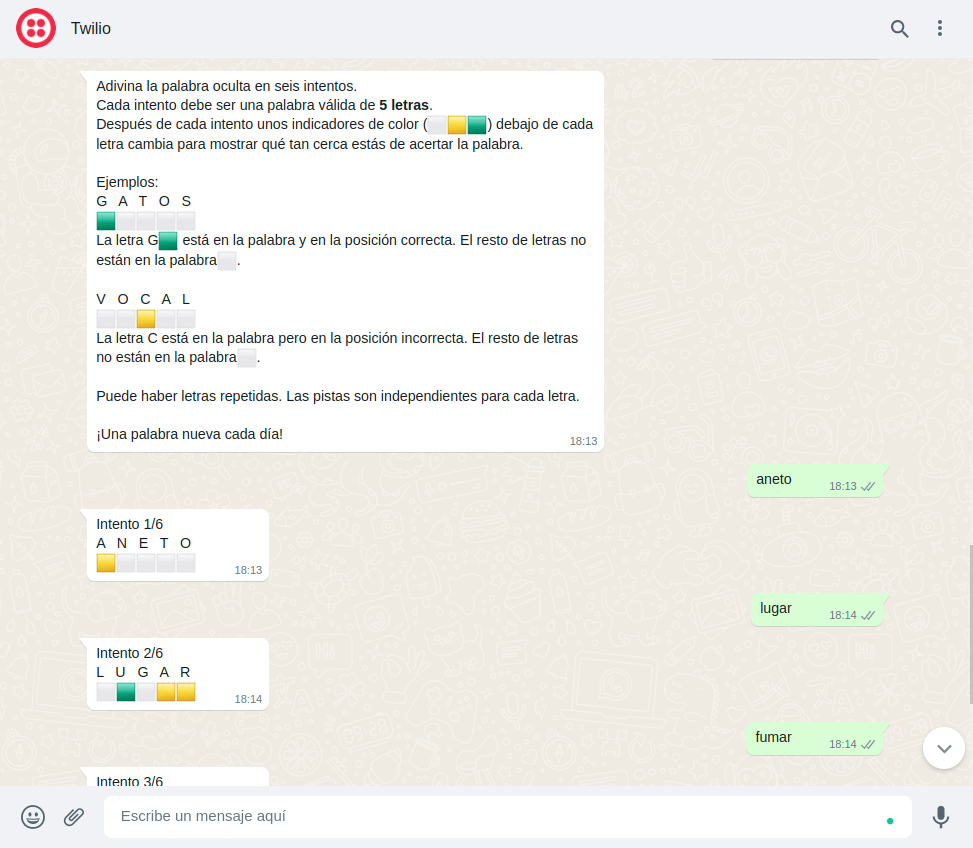
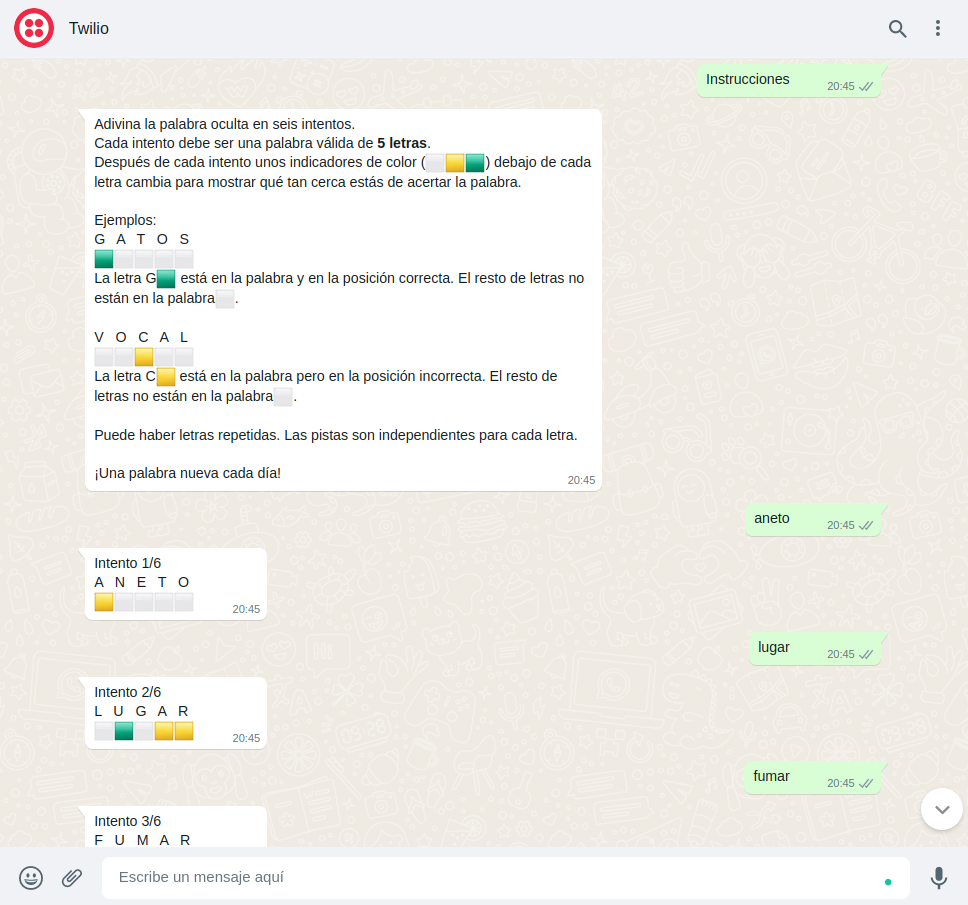
Game v2.0.0 with SQL database

diff --git a/app.py b/app.py
@@ -1,11 +1,16 @@
 import random
-from flask import Flask, request, jsonify, json
+import os
+from collections import Counter
+from datetime import datetime
+from flask import Flask, request
+from sqlalchemy import ForeignKey, and_
 from twilio.twiml.messaging_response import MessagingResponse
+from flask_sqlalchemy import SQLAlchemy
 
 app = Flask(__name__)
 
-with open('data/spanish_words.txt') as file:
-    WORDS = file.readlines()
+app.config['SQLALCHEMY_DATABASE_URI'] = "postgresql://postgres:postgres@localhost:5432/wordle"
+db = SQLAlchemy(app)
 
 MAX_TRIES = 6
 BRIEFING = '''
@@ -27,20 +32,85 @@ Puede haber letras repetidas. Las pistas son independientes para cada letra.
 ¡Una palabra nueva cada día!'''
 
 
-current_word = ''
-n_tries = 0
-global_results = []
+class Words(db.Model):
+    __tablename__ = 'words'
 
-def generate_new_word() -> str:
+    word_id = db.Column(db.Integer, primary_key=True)
+    word = db.Column(db.String())
+    word_date = db.Column(db.Date())
+
+    def __init__(self, word, word_date):
+        self.word = word
+        self.word_date = word_date
+
+    def __repr__(self):
+        return f'<Word {self.word} for {self.word_date}>'
+
+class Users(db.Model):
+    __tablename__ = 'users'
+
+    user_id = db.Column(db.Integer, primary_key=True)
+    user_phone = db.Column(db.String())
+    signup_on = db.Column(db.DateTime())
+    last_login = db.Column(db.DateTime())
+    sessions = db.relationship('Sessions')
+
+    def __init__(self, user_phone, signup_on):
+        self.user_phone = user_phone
+        self.signup_on = signup_on
+        self.last_login = signup_on
+
+    def __repr__(self):
+        return f'<User {self.user_phone}>'
+
+class Sessions(db.Model):
+    __tablename__ = 'sessions'
+
+    session_id = db.Column(db.Integer, primary_key=True)
+    session_date = db.Column(db.Date())
+    completed = db.Column(db.Boolean())
+    n_tries = db.Column(db.Integer())
+    user_id = db.Column(db.Integer(), ForeignKey('users.user_id'))
+    results = db.relationship('Results')
+
+    def __init__(self, session_date, completed, user_id):
+        self.session_date = session_date
+        self.completed = completed
+        self.n_tries = 0
+        self.user_id = user_id
+
+    def __repr__(self):
+        return f'<Session of user {self.user_id} from {self.session_date}>'
+
+class Results(db.Model):
+    __tablename__ = 'results'
+
+    result_id = db.Column(db.Integer, primary_key=True)
+    result_datetime = db.Column(db.DateTime())
+    color_code = db.Column(db.String())
+    tried_word = db.Column(db.String())
+    session_id = db.Column(db.Integer(), ForeignKey('sessions.session_id'))
+
+    def __init__(self, result_datetime, color_code, tried_word, session_id):
+        self.result_datetime = result_datetime
+        self.color_code = color_code
+        self.tried_word = tried_word
+        self.session_id = session_id
+
+    def __repr__(self):
+        return f'<Result {self.color_code} from {self.tried_word} on {self.result_datetime}>'
+
+
+def get_day_word(date:str) -> str:
     '''
-    Generate a new word to start the game
+    Get the word of the day to game
     '''
-    global WORDS
-    word_idx = random.randint(0, len(WORDS))
-    word = WORDS[word_idx]
+    
+    words = db.session.query(Words).filter(Words.word_date == date)
+    word = words[0].word
     return word
 
-def check_word(word: str) -> bool:
+def check_word(word:str) -> bool:
     '''
     Check if the word introduced by the user is valid
     '''
@@ -52,7 +122,7 @@ def check_word(word: str) -> bool:
 
     return valid_word
 
-def check_try(word: str, tried_word: str) -> list:
+def check_try(word:str, tried_word:str) -> list:
     '''
     Check the if the word introduced by the user match the target word
     '''
@@ -70,7 +140,7 @@ def check_try(word: str, tried_word: str) -> list:
 
     return result_ls
 
-def parse_result(result: list) -> str:
+def parse_result(result:list) -> str:
     '''
     Parses the result in a human readable string
     '''
@@ -80,13 +150,31 @@ def parse_result(result: list) -> str:
     result_parsed = ''.join([emojis[r] for w, r in result])
 
     result_str = f'{word_parsed}\n{result_parsed}'
+
     return result_str
 
-def twilio_message(messages: list) -> str:
+def parse_global_results(n_tries:list, victories_pct=int) -> str:
+    '''
+    Parses the global results in a human readable string
+    '''
+    result_str = ''
+    tries_dst = Counter(n_tries)
+    for i in range(MAX_TRIES):
+        n = tries_dst.get(i + 1, 0)
+        pct = round((n / len(n_tries)) * 100)
+        emoji_bar = ''.join(['⬛' for _ in range(round(pct / 10))])
+        result_str += f'{i + 1}:' + emoji_bar + f'({pct}%)\n'
+    return result_str
+
+def twilio_message(messages:list, cost_optimizer:bool=True) -> str:
     '''
     Creates Twilio message from a list of strings
     '''
     tl_response = MessagingResponse()
+
+    if cost_optimizer:
+        messages = ['\n\n'.join(messages)]
+
     for message in messages:
         tl_response.message(message)
 
@@ -95,51 +183,96 @@ def twilio_message(messages: list) -> str:
 
 @app.route('/new-message', methods=['POST'])
 def game():
-    global current_word, n_tries, global_results
     global BRIEFING, MAX_TRIES
 
+    current_datetime = datetime.now()
+    user_phone = request.form['From'].replace('whatsapp:', '')
     message = request.form['Body'].lower()
     # print(message)
+    # print(user_phone, current_datetime.strftime('%Y-%m-%d'))
+    
+    user = db.session.query(Users).filter(Users.user_phone == user_phone).first()
+    if user:
+        user.last_login = current_datetime
+        db.session.add(user)
+        db.session.commit()
+    else:
+        user = Users(user_phone=user_phone, signup_on=current_datetime)
+        db.session.add(user)
+        db.session.commit()
 
     response_messages = []
-    if message == 'quiero jugar':
-        current_word = generate_new_word()
-        global_results = []
-        n_tries = 0
-
+    if message == 'instrucciones':
         response_messages.append(BRIEFING)
+
+    elif message == 'resultados':
+        sessions = db.session.query(Sessions).filter(Sessions.user_id == user.user_id).all()
+        n_sessions = len(sessions)
+        victories = [s for s in sessions if s.completed]
+        n_victories = len(victories)
+        victories_pct = round((n_victories / n_sessions) * 100)
+        n_tries = [s.n_tries for s in sessions]
+
+        response_messages.append('Tus resultados:')
+        response_messages.append(f'Partidas jugadas: {n_sessions}\nVictorias: {victories_pct}%')
+        response_messages.append(parse_global_results(n_tries, victories_pct))
 
     elif not check_word(message):
         response_messages.append('La palabra que has introducido no es válida.')
         response_messages.append('Recueda que debe ser una palabra del diccionario de 5 letras.')
 
     else:
-        if n_tries >= MAX_TRIES:
-            response_messages.append('Has alcanzado el número máximo de intentos para la palabra de hoy.\nIntentalo de nuevo mañana!')
-            response_messages.append('Tus estadisticas de hoy:\n' + '\n'.join(global_results))
+        today_results = []
+        session = db.session.query(Sessions).filter(and_(Sessions.user_id == user.user_id, Sessions.session_date == current_datetime.strftime('%Y-%m-%d'))).first()
+        if session:
+            session_results = db.session.query(Results).filter(Results.session_id == session.session_id).all()
+            if session_results:
+                today_results = [parse_result([(l, r) for l, r in zip(r.tried_word, r.color_code)]) for r in session_results]
+                today_results = [tr.split('\n')[-1] for tr in today_results]
+        else:
+            session = Sessions(session_date=current_datetime.strftime('%Y-%m-%d'), completed=False, user_id=user.user_id)
+            db.session.add(session)
+            db.session.commit()
+
+        n_tries = len(today_results)
+        if n_tries >= MAX_TRIES or session.completed:
+            response_messages.append('Has alcanzado el número máximo de intentos para la palabra de hoy.\Vuelve de nuevo mañana!')
+            response_messages.append('Tus estadisticas de hoy:\n' + '\n'.join(today_results))
 
         else:
-            # print(current_word, message)
+            day_word = get_day_word(current_datetime.strftime('%Y-%m-%d'))
+            # print(day_word, message)
             n_tries += 1
-            result = check_try(current_word, message)
+            result = check_try(day_word, message)
             parsed_results = parse_result(result)
             response_messages.append(f'Intento {n_tries}/{MAX_TRIES}\n' + parsed_results)
-            global_results.append(parsed_results.split('\n')[-1])
+            today_results.append(parsed_results.split('\n')[-1])
 
             correct_word = all([True if r == 'G' else False for l, r in result])
+            
+            result = Results(result_datetime=current_datetime, color_code=''.join([r for l, r in result]), tried_word=message, session_id=session.session_id)
+            db.session.add(result)
+            db.session.commit()
 
+            session.n_tries = n_tries
             if correct_word:
                 response_messages.append(f'!ENHORABUENA¡ Has adivinado la palabra en {n_tries} intentos.\nVuelve mañana para una nueva palabra!')
-                response_messages.append('Tus estadisticas de hoy:\n' + '\n'.join(global_results))
+                response_messages.append('Tus estadisticas de hoy:\n' + '\n'.join(today_results))
+
+                session.completed = True
 
             else:
                 if n_tries >= MAX_TRIES:
                     response_messages.append('Has alcanzado el número máximo de intentos para la palabra de hoy.\nIntentalo de nuevo mañana!')
-                    response_messages.append('Tus estadisticas de hoy:\n' + '\n'.join(global_results))
-
+                    response_messages.append('Tus estadisticas de hoy:\n' + '\n'.join(today_results))
+                
+            db.session.add(session)
+            db.session.commit()
 
     response = twilio_message(response_messages)
     return response
 
 if __name__ == '__main__':
     app.run(host='0.0.0.0', port=5000, debug=True)
+
+
